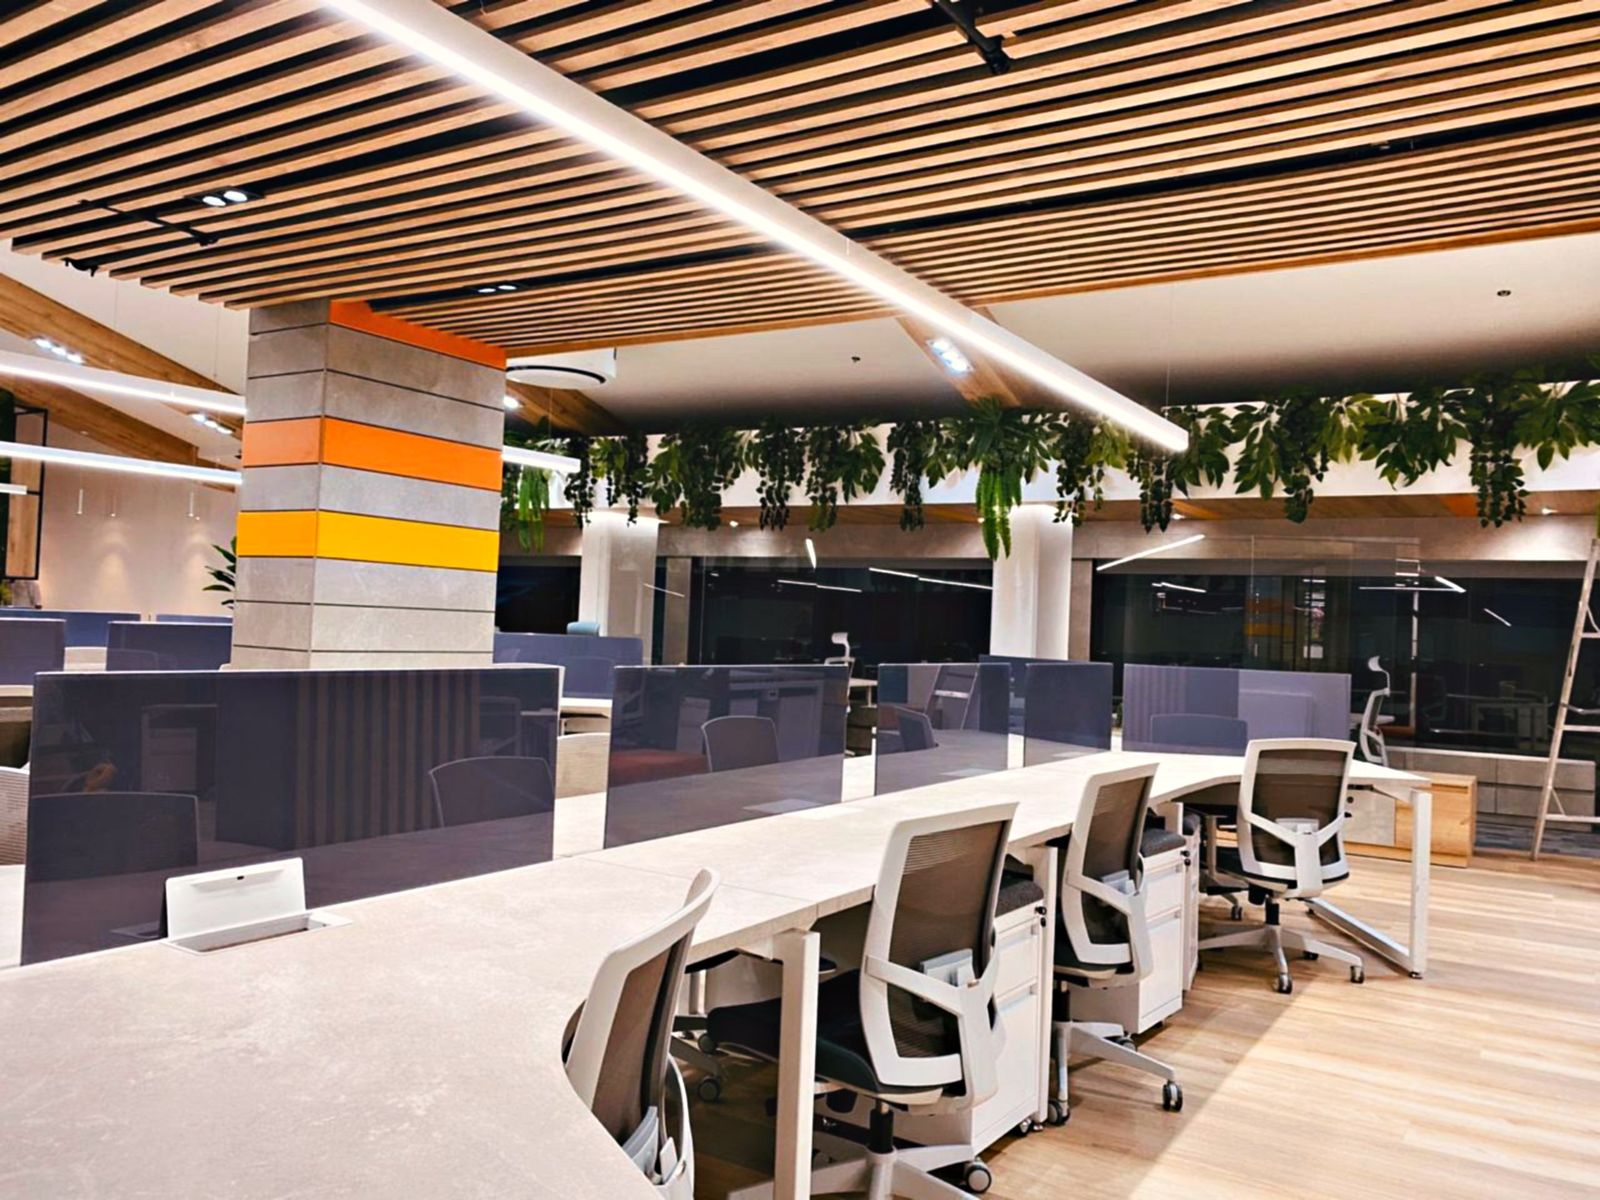
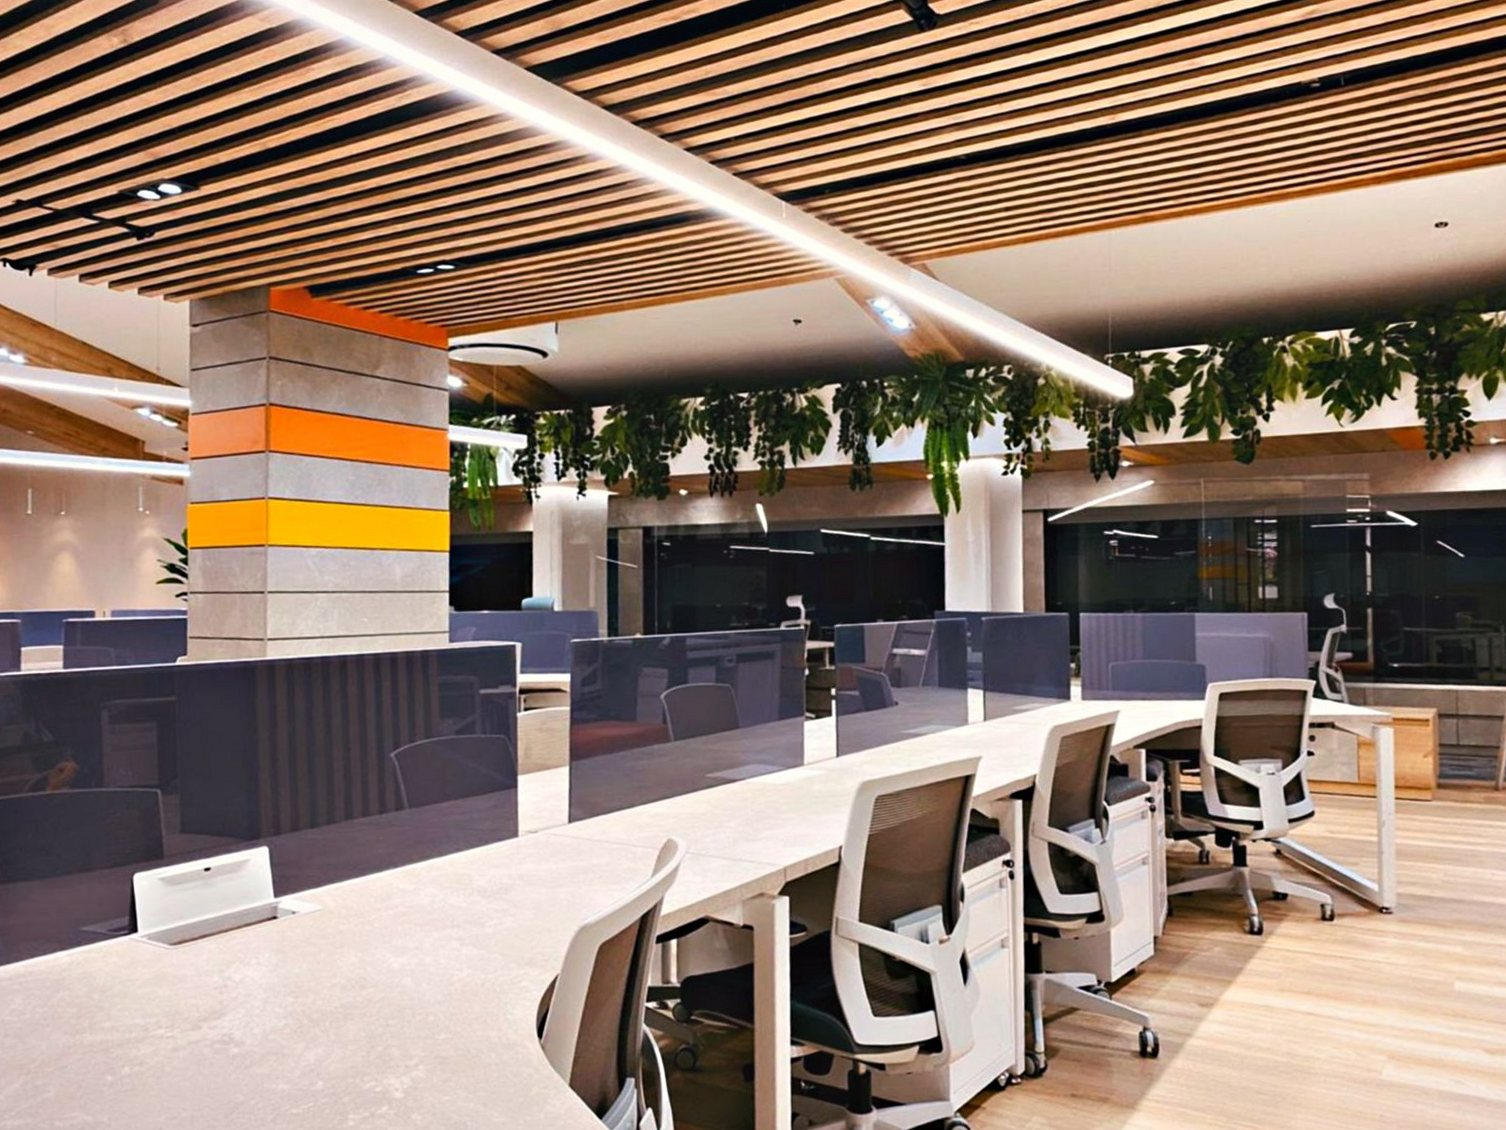
Galeria corporativa: foto 12 enderezada; herramienta de deteccion de inclinacion

diff --git a/docs/404.html b/docs/404.html
@@ -24,7 +24,7 @@
 <link rel="preconnect" href="https://fonts.gstatic.com" crossorigin>
 <link href="https://fonts.googleapis.com/css2?family=Inter:wght@200;300;400;500;600&display=swap" rel="stylesheet">
 <script>document.documentElement.className+=" js";</script>
-<link rel="stylesheet" href="assets/css/site.css?v=20261014191435">
+<link rel="stylesheet" href="assets/css/site.css?v=20261014193122">
 <script type="application/ld+json">
 {
   "@context": "https://schema.org",
@@ -558,6 +558,6 @@
   <svg viewBox="0 0 24 24" fill="currentColor" aria-hidden="true"><path d="M17.5 14.4c-.3-.2-1.7-.9-2-1-.3-.1-.5-.2-.7.1-.2.3-.7 1-.9 1.2-.2.2-.3.2-.6.1-.3-.2-1.2-.5-2.3-1.4-.9-.8-1.4-1.7-1.6-2-.2-.3 0-.5.1-.6l.5-.5c.1-.2.2-.3.3-.5 0-.2 0-.4 0-.5 0-.2-.7-1.6-.9-2.2-.2-.6-.5-.5-.7-.5h-.6c-.2 0-.5.1-.8.4-.3.3-1 1-1 2.5s1.1 2.9 1.2 3.1c.1.2 2.1 3.2 5 4.4.7.3 1.2.5 1.7.6.7.2 1.3.2 1.8.1.6-.1 1.7-.7 1.9-1.4.2-.7.2-1.2.2-1.4-.1-.1-.3-.2-.6-.3z"/><path d="M12 2a10 10 0 0 0-8.6 15.1L2 22l5-1.3A10 10 0 1 0 12 2zm0 18.2c-1.5 0-3-.4-4.3-1.2l-.3-.2-3 .8.8-2.9-.2-.3A8.2 8.2 0 1 1 12 20.2z"/></svg>
 </a>
 
-<script src="assets/js/site.js?v=20261014191435" defer></script>
+<script src="assets/js/site.js?v=20261014193122" defer></script>
 </body>
 </html>

diff --git a/docs/arquitectura-corporativa.html b/docs/arquitectura-corporativa.html
@@ -24,7 +24,7 @@
 <link rel="preconnect" href="https://fonts.gstatic.com" crossorigin>
 <link href="https://fonts.googleapis.com/css2?family=Inter:wght@200;300;400;500;600&display=swap" rel="stylesheet">
 <script>document.documentElement.className+=" js";</script>
-<link rel="stylesheet" href="assets/css/site.css?v=20261014191435">
+<link rel="stylesheet" href="assets/css/site.css?v=20261014193122">
 <script type="application/ld+json">
 {
   "@context": "https://schema.org",
@@ -226,6 +226,6 @@
   <svg viewBox="0 0 24 24" fill="currentColor" aria-hidden="true"><path d="M17.5 14.4c-.3-.2-1.7-.9-2-1-.3-.1-.5-.2-.7.1-.2.3-.7 1-.9 1.2-.2.2-.3.2-.6.1-.3-.2-1.2-.5-2.3-1.4-.9-.8-1.4-1.7-1.6-2-.2-.3 0-.5.1-.6l.5-.5c.1-.2.2-.3.3-.5 0-.2 0-.4 0-.5 0-.2-.7-1.6-.9-2.2-.2-.6-.5-.5-.7-.5h-.6c-.2 0-.5.1-.8.4-.3.3-1 1-1 2.5s1.1 2.9 1.2 3.1c.1.2 2.1 3.2 5 4.4.7.3 1.2.5 1.7.6.7.2 1.3.2 1.8.1.6-.1 1.7-.7 1.9-1.4.2-.7.2-1.2.2-1.4-.1-.1-.3-.2-.6-.3z"/><path d="M12 2a10 10 0 0 0-8.6 15.1L2 22l5-1.3A10 10 0 1 0 12 2zm0 18.2c-1.5 0-3-.4-4.3-1.2l-.3-.2-3 .8.8-2.9-.2-.3A8.2 8.2 0 1 1 12 20.2z"/></svg>
 </a>
 
-<script src="assets/js/site.js?v=20261014191435" defer></script>
+<script src="assets/js/site.js?v=20261014193122" defer></script>
 </body>
 </html>

diff --git a/docs/arquitectura-residencial.html b/docs/arquitectura-residencial.html
@@ -24,7 +24,7 @@
 <link rel="preconnect" href="https://fonts.gstatic.com" crossorigin>
 <link href="https://fonts.googleapis.com/css2?family=Inter:wght@200;300;400;500;600&display=swap" rel="stylesheet">
 <script>document.documentElement.className+=" js";</script>
-<link rel="stylesheet" href="assets/css/site.css?v=20261014191435">
+<link rel="stylesheet" href="assets/css/site.css?v=20261014193122">
 <script type="application/ld+json">
 {
   "@context": "https://schema.org",
@@ -226,6 +226,6 @@
   <svg viewBox="0 0 24 24" fill="currentColor" aria-hidden="true"><path d="M17.5 14.4c-.3-.2-1.7-.9-2-1-.3-.1-.5-.2-.7.1-.2.3-.7 1-.9 1.2-.2.2-.3.2-.6.1-.3-.2-1.2-.5-2.3-1.4-.9-.8-1.4-1.7-1.6-2-.2-.3 0-.5.1-.6l.5-.5c.1-.2.2-.3.3-.5 0-.2 0-.4 0-.5 0-.2-.7-1.6-.9-2.2-.2-.6-.5-.5-.7-.5h-.6c-.2 0-.5.1-.8.4-.3.3-1 1-1 2.5s1.1 2.9 1.2 3.1c.1.2 2.1 3.2 5 4.4.7.3 1.2.5 1.7.6.7.2 1.3.2 1.8.1.6-.1 1.7-.7 1.9-1.4.2-.7.2-1.2.2-1.4-.1-.1-.3-.2-.6-.3z"/><path d="M12 2a10 10 0 0 0-8.6 15.1L2 22l5-1.3A10 10 0 1 0 12 2zm0 18.2c-1.5 0-3-.4-4.3-1.2l-.3-.2-3 .8.8-2.9-.2-.3A8.2 8.2 0 1 1 12 20.2z"/></svg>
 </a>
 
-<script src="assets/js/site.js?v=20261014191435" defer></script>
+<script src="assets/js/site.js?v=20261014193122" defer></script>
 </body>
 </html>

diff --git a/docs/burbujas.html b/docs/burbujas.html
@@ -24,7 +24,7 @@
 <link rel="preconnect" href="https://fonts.gstatic.com" crossorigin>
 <link href="https://fonts.googleapis.com/css2?family=Inter:wght@200;300;400;500;600&display=swap" rel="stylesheet">
 <script>document.documentElement.className+=" js";</script>
-<link rel="stylesheet" href="assets/css/site.css?v=20261014191435">
+<link rel="stylesheet" href="assets/css/site.css?v=20261014193122">
 <script type="application/ld+json">
 {
   "@context": "https://schema.org",
@@ -382,6 +382,6 @@
   <svg viewBox="0 0 24 24" fill="currentColor" aria-hidden="true"><path d="M17.5 14.4c-.3-.2-1.7-.9-2-1-.3-.1-.5-.2-.7.1-.2.3-.7 1-.9 1.2-.2.2-.3.2-.6.1-.3-.2-1.2-.5-2.3-1.4-.9-.8-1.4-1.7-1.6-2-.2-.3 0-.5.1-.6l.5-.5c.1-.2.2-.3.3-.5 0-.2 0-.4 0-.5 0-.2-.7-1.6-.9-2.2-.2-.6-.5-.5-.7-.5h-.6c-.2 0-.5.1-.8.4-.3.3-1 1-1 2.5s1.1 2.9 1.2 3.1c.1.2 2.1 3.2 5 4.4.7.3 1.2.5 1.7.6.7.2 1.3.2 1.8.1.6-.1 1.7-.7 1.9-1.4.2-.7.2-1.2.2-1.4-.1-.1-.3-.2-.6-.3z"/><path d="M12 2a10 10 0 0 0-8.6 15.1L2 22l5-1.3A10 10 0 1 0 12 2zm0 18.2c-1.5 0-3-.4-4.3-1.2l-.3-.2-3 .8.8-2.9-.2-.3A8.2 8.2 0 1 1 12 20.2z"/></svg>
 </a>
 
-<script src="assets/js/site.js?v=20261014191435" defer></script>
+<script src="assets/js/site.js?v=20261014193122" defer></script>
 </body>
 </html>

diff --git a/docs/catalogos.html b/docs/catalogos.html
@@ -24,7 +24,7 @@
 <link rel="preconnect" href="https://fonts.gstatic.com" crossorigin>
 <link href="https://fonts.googleapis.com/css2?family=Inter:wght@200;300;400;500;600&display=swap" rel="stylesheet">
 <script>document.documentElement.className+=" js";</script>
-<link rel="stylesheet" href="assets/css/site.css?v=20261014191435">
+<link rel="stylesheet" href="assets/css/site.css?v=20261014193122">
 <script type="application/ld+json">
 {
   "@context": "https://schema.org",
@@ -249,6 +249,6 @@
   <svg viewBox="0 0 24 24" fill="currentColor" aria-hidden="true"><path d="M17.5 14.4c-.3-.2-1.7-.9-2-1-.3-.1-.5-.2-.7.1-.2.3-.7 1-.9 1.2-.2.2-.3.2-.6.1-.3-.2-1.2-.5-2.3-1.4-.9-.8-1.4-1.7-1.6-2-.2-.3 0-.5.1-.6l.5-.5c.1-.2.2-.3.3-.5 0-.2 0-.4 0-.5 0-.2-.7-1.6-.9-2.2-.2-.6-.5-.5-.7-.5h-.6c-.2 0-.5.1-.8.4-.3.3-1 1-1 2.5s1.1 2.9 1.2 3.1c.1.2 2.1 3.2 5 4.4.7.3 1.2.5 1.7.6.7.2 1.3.2 1.8.1.6-.1 1.7-.7 1.9-1.4.2-.7.2-1.2.2-1.4-.1-.1-.3-.2-.6-.3z"/><path d="M12 2a10 10 0 0 0-8.6 15.1L2 22l5-1.3A10 10 0 1 0 12 2zm0 18.2c-1.5 0-3-.4-4.3-1.2l-.3-.2-3 .8.8-2.9-.2-.3A8.2 8.2 0 1 1 12 20.2z"/></svg>
 </a>
 
-<script src="assets/js/site.js?v=20261014191435" defer></script>
+<script src="assets/js/site.js?v=20261014193122" defer></script>
 </body>
 </html>

diff --git a/docs/clientes.html b/docs/clientes.html
@@ -24,7 +24,7 @@
 <link rel="preconnect" href="https://fonts.gstatic.com" crossorigin>
 <link href="https://fonts.googleapis.com/css2?family=Inter:wght@200;300;400;500;600&display=swap" rel="stylesheet">
 <script>document.documentElement.className+=" js";</script>
-<link rel="stylesheet" href="assets/css/site.css?v=20261014191435">
+<link rel="stylesheet" href="assets/css/site.css?v=20261014193122">
 <script type="application/ld+json">
 {
   "@context": "https://schema.org",
@@ -234,6 +234,6 @@
   <svg viewBox="0 0 24 24" fill="currentColor" aria-hidden="true"><path d="M17.5 14.4c-.3-.2-1.7-.9-2-1-.3-.1-.5-.2-.7.1-.2.3-.7 1-.9 1.2-.2.2-.3.2-.6.1-.3-.2-1.2-.5-2.3-1.4-.9-.8-1.4-1.7-1.6-2-.2-.3 0-.5.1-.6l.5-.5c.1-.2.2-.3.3-.5 0-.2 0-.4 0-.5 0-.2-.7-1.6-.9-2.2-.2-.6-.5-.5-.7-.5h-.6c-.2 0-.5.1-.8.4-.3.3-1 1-1 2.5s1.1 2.9 1.2 3.1c.1.2 2.1 3.2 5 4.4.7.3 1.2.5 1.7.6.7.2 1.3.2 1.8.1.6-.1 1.7-.7 1.9-1.4.2-.7.2-1.2.2-1.4-.1-.1-.3-.2-.6-.3z"/><path d="M12 2a10 10 0 0 0-8.6 15.1L2 22l5-1.3A10 10 0 1 0 12 2zm0 18.2c-1.5 0-3-.4-4.3-1.2l-.3-.2-3 .8.8-2.9-.2-.3A8.2 8.2 0 1 1 12 20.2z"/></svg>
 </a>
 
-<script src="assets/js/site.js?v=20261014191435" defer></script>
+<script src="assets/js/site.js?v=20261014193122" defer></script>
 </body>
 </html>

diff --git a/docs/contacto.html b/docs/contacto.html
@@ -24,7 +24,7 @@
 <link rel="preconnect" href="https://fonts.gstatic.com" crossorigin>
 <link href="https://fonts.googleapis.com/css2?family=Inter:wght@200;300;400;500;600&display=swap" rel="stylesheet">
 <script>document.documentElement.className+=" js";</script>
-<link rel="stylesheet" href="assets/css/site.css?v=20261014191435">
+<link rel="stylesheet" href="assets/css/site.css?v=20261014193122">
 <script type="application/ld+json">
 {
   "@context": "https://schema.org",
@@ -292,6 +292,6 @@
   <svg viewBox="0 0 24 24" fill="currentColor" aria-hidden="true"><path d="M17.5 14.4c-.3-.2-1.7-.9-2-1-.3-.1-.5-.2-.7.1-.2.3-.7 1-.9 1.2-.2.2-.3.2-.6.1-.3-.2-1.2-.5-2.3-1.4-.9-.8-1.4-1.7-1.6-2-.2-.3 0-.5.1-.6l.5-.5c.1-.2.2-.3.3-.5 0-.2 0-.4 0-.5 0-.2-.7-1.6-.9-2.2-.2-.6-.5-.5-.7-.5h-.6c-.2 0-.5.1-.8.4-.3.3-1 1-1 2.5s1.1 2.9 1.2 3.1c.1.2 2.1 3.2 5 4.4.7.3 1.2.5 1.7.6.7.2 1.3.2 1.8.1.6-.1 1.7-.7 1.9-1.4.2-.7.2-1.2.2-1.4-.1-.1-.3-.2-.6-.3z"/><path d="M12 2a10 10 0 0 0-8.6 15.1L2 22l5-1.3A10 10 0 1 0 12 2zm0 18.2c-1.5 0-3-.4-4.3-1.2l-.3-.2-3 .8.8-2.9-.2-.3A8.2 8.2 0 1 1 12 20.2z"/></svg>
 </a>
 
-<script src="assets/js/site.js?v=20261014191435" defer></script>
+<script src="assets/js/site.js?v=20261014193122" defer></script>
 </body>
 </html>

diff --git a/docs/estudio-de-arquitectura.html b/docs/estudio-de-arquitectura.html
@@ -24,7 +24,7 @@
 <link rel="preconnect" href="https://fonts.gstatic.com" crossorigin>
 <link href="https://fonts.googleapis.com/css2?family=Inter:wght@200;300;400;500;600&display=swap" rel="stylesheet">
 <script>document.documentElement.className+=" js";</script>
-<link rel="stylesheet" href="assets/css/site.css?v=20261014191435">
+<link rel="stylesheet" href="assets/css/site.css?v=20261014193122">
 <script type="application/ld+json">
 {
   "@context": "https://schema.org",
@@ -475,6 +475,6 @@
   <svg viewBox="0 0 24 24" fill="currentColor" aria-hidden="true"><path d="M17.5 14.4c-.3-.2-1.7-.9-2-1-.3-.1-.5-.2-.7.1-.2.3-.7 1-.9 1.2-.2.2-.3.2-.6.1-.3-.2-1.2-.5-2.3-1.4-.9-.8-1.4-1.7-1.6-2-.2-.3 0-.5.1-.6l.5-.5c.1-.2.2-.3.3-.5 0-.2 0-.4 0-.5 0-.2-.7-1.6-.9-2.2-.2-.6-.5-.5-.7-.5h-.6c-.2 0-.5.1-.8.4-.3.3-1 1-1 2.5s1.1 2.9 1.2 3.1c.1.2 2.1 3.2 5 4.4.7.3 1.2.5 1.7.6.7.2 1.3.2 1.8.1.6-.1 1.7-.7 1.9-1.4.2-.7.2-1.2.2-1.4-.1-.1-.3-.2-.6-.3z"/><path d="M12 2a10 10 0 0 0-8.6 15.1L2 22l5-1.3A10 10 0 1 0 12 2zm0 18.2c-1.5 0-3-.4-4.3-1.2l-.3-.2-3 .8.8-2.9-.2-.3A8.2 8.2 0 1 1 12 20.2z"/></svg>
 </a>
 
-<script src="assets/js/site.js?v=20261014191435" defer></script>
+<script src="assets/js/site.js?v=20261014193122" defer></script>
 </body>
 </html>

diff --git a/docs/fachadas.html b/docs/fachadas.html
@@ -24,7 +24,7 @@
 <link rel="preconnect" href="https://fonts.gstatic.com" crossorigin>
 <link href="https://fonts.googleapis.com/css2?family=Inter:wght@200;300;400;500;600&display=swap" rel="stylesheet">
 <script>document.documentElement.className+=" js";</script>
-<link rel="stylesheet" href="assets/css/site.css?v=20261014191435">
+<link rel="stylesheet" href="assets/css/site.css?v=20261014193122">
 <script type="application/ld+json">
 {
   "@context": "https://schema.org",
@@ -448,6 +448,6 @@
   <svg viewBox="0 0 24 24" fill="currentColor" aria-hidden="true"><path d="M17.5 14.4c-.3-.2-1.7-.9-2-1-.3-.1-.5-.2-.7.1-.2.3-.7 1-.9 1.2-.2.2-.3.2-.6.1-.3-.2-1.2-.5-2.3-1.4-.9-.8-1.4-1.7-1.6-2-.2-.3 0-.5.1-.6l.5-.5c.1-.2.2-.3.3-.5 0-.2 0-.4 0-.5 0-.2-.7-1.6-.9-2.2-.2-.6-.5-.5-.7-.5h-.6c-.2 0-.5.1-.8.4-.3.3-1 1-1 2.5s1.1 2.9 1.2 3.1c.1.2 2.1 3.2 5 4.4.7.3 1.2.5 1.7.6.7.2 1.3.2 1.8.1.6-.1 1.7-.7 1.9-1.4.2-.7.2-1.2.2-1.4-.1-.1-.3-.2-.6-.3z"/><path d="M12 2a10 10 0 0 0-8.6 15.1L2 22l5-1.3A10 10 0 1 0 12 2zm0 18.2c-1.5 0-3-.4-4.3-1.2l-.3-.2-3 .8.8-2.9-.2-.3A8.2 8.2 0 1 1 12 20.2z"/></svg>
 </a>
 
-<script src="assets/js/site.js?v=20261014191435" defer></script>
+<script src="assets/js/site.js?v=20261014193122" defer></script>
 </body>
 </html>

diff --git a/docs/index.html b/docs/index.html
@@ -24,7 +24,7 @@
 <link rel="preconnect" href="https://fonts.gstatic.com" crossorigin>
 <link href="https://fonts.googleapis.com/css2?family=Inter:wght@200;300;400;500;600&display=swap" rel="stylesheet">
 <script>document.documentElement.className+=" js";</script>
-<link rel="stylesheet" href="assets/css/site.css?v=20261014191435">
+<link rel="stylesheet" href="assets/css/site.css?v=20261014193122">
 <script type="application/ld+json">
 {
   "@context": "https://schema.org",
@@ -558,6 +558,6 @@
   <svg viewBox="0 0 24 24" fill="currentColor" aria-hidden="true"><path d="M17.5 14.4c-.3-.2-1.7-.9-2-1-.3-.1-.5-.2-.7.1-.2.3-.7 1-.9 1.2-.2.2-.3.2-.6.1-.3-.2-1.2-.5-2.3-1.4-.9-.8-1.4-1.7-1.6-2-.2-.3 0-.5.1-.6l.5-.5c.1-.2.2-.3.3-.5 0-.2 0-.4 0-.5 0-.2-.7-1.6-.9-2.2-.2-.6-.5-.5-.7-.5h-.6c-.2 0-.5.1-.8.4-.3.3-1 1-1 2.5s1.1 2.9 1.2 3.1c.1.2 2.1 3.2 5 4.4.7.3 1.2.5 1.7.6.7.2 1.3.2 1.8.1.6-.1 1.7-.7 1.9-1.4.2-.7.2-1.2.2-1.4-.1-.1-.3-.2-.6-.3z"/><path d="M12 2a10 10 0 0 0-8.6 15.1L2 22l5-1.3A10 10 0 1 0 12 2zm0 18.2c-1.5 0-3-.4-4.3-1.2l-.3-.2-3 .8.8-2.9-.2-.3A8.2 8.2 0 1 1 12 20.2z"/></svg>
 </a>
 
-<script src="assets/js/site.js?v=20261014191435" defer></script>
+<script src="assets/js/site.js?v=20261014193122" defer></script>
 </body>
 </html>

diff --git a/docs/nosotros.html b/docs/nosotros.html
@@ -24,7 +24,7 @@
 <link rel="preconnect" href="https://fonts.gstatic.com" crossorigin>
 <link href="https://fonts.googleapis.com/css2?family=Inter:wght@200;300;400;500;600&display=swap" rel="stylesheet">
 <script>document.documentElement.className+=" js";</script>
-<link rel="stylesheet" href="assets/css/site.css?v=20261014191435">
+<link rel="stylesheet" href="assets/css/site.css?v=20261014193122">
 <script type="application/ld+json">
 {
   "@context": "https://schema.org",
@@ -275,6 +275,6 @@
   <svg viewBox="0 0 24 24" fill="currentColor" aria-hidden="true"><path d="M17.5 14.4c-.3-.2-1.7-.9-2-1-.3-.1-.5-.2-.7.1-.2.3-.7 1-.9 1.2-.2.2-.3.2-.6.1-.3-.2-1.2-.5-2.3-1.4-.9-.8-1.4-1.7-1.6-2-.2-.3 0-.5.1-.6l.5-.5c.1-.2.2-.3.3-.5 0-.2 0-.4 0-.5 0-.2-.7-1.6-.9-2.2-.2-.6-.5-.5-.7-.5h-.6c-.2 0-.5.1-.8.4-.3.3-1 1-1 2.5s1.1 2.9 1.2 3.1c.1.2 2.1 3.2 5 4.4.7.3 1.2.5 1.7.6.7.2 1.3.2 1.8.1.6-.1 1.7-.7 1.9-1.4.2-.7.2-1.2.2-1.4-.1-.1-.3-.2-.6-.3z"/><path d="M12 2a10 10 0 0 0-8.6 15.1L2 22l5-1.3A10 10 0 1 0 12 2zm0 18.2c-1.5 0-3-.4-4.3-1.2l-.3-.2-3 .8.8-2.9-.2-.3A8.2 8.2 0 1 1 12 20.2z"/></svg>
 </a>
 
-<script src="assets/js/site.js?v=20261014191435" defer></script>
+<script src="assets/js/site.js?v=20261014193122" defer></script>
 </body>
 </html>

diff --git a/docs/privacidad.html b/docs/privacidad.html
@@ -24,7 +24,7 @@
 <link rel="preconnect" href="https://fonts.gstatic.com" crossorigin>
 <link href="https://fonts.googleapis.com/css2?family=Inter:wght@200;300;400;500;600&display=swap" rel="stylesheet">
 <script>document.documentElement.className+=" js";</script>
-<link rel="stylesheet" href="assets/css/site.css?v=20261014191435">
+<link rel="stylesheet" href="assets/css/site.css?v=20261014193122">
 <script type="application/ld+json">
 {
   "@context": "https://schema.org",
@@ -256,6 +256,6 @@
   <svg viewBox="0 0 24 24" fill="currentColor" aria-hidden="true"><path d="M17.5 14.4c-.3-.2-1.7-.9-2-1-.3-.1-.5-.2-.7.1-.2.3-.7 1-.9 1.2-.2.2-.3.2-.6.1-.3-.2-1.2-.5-2.3-1.4-.9-.8-1.4-1.7-1.6-2-.2-.3 0-.5.1-.6l.5-.5c.1-.2.2-.3.3-.5 0-.2 0-.4 0-.5 0-.2-.7-1.6-.9-2.2-.2-.6-.5-.5-.7-.5h-.6c-.2 0-.5.1-.8.4-.3.3-1 1-1 2.5s1.1 2.9 1.2 3.1c.1.2 2.1 3.2 5 4.4.7.3 1.2.5 1.7.6.7.2 1.3.2 1.8.1.6-.1 1.7-.7 1.9-1.4.2-.7.2-1.2.2-1.4-.1-.1-.3-.2-.6-.3z"/><path d="M12 2a10 10 0 0 0-8.6 15.1L2 22l5-1.3A10 10 0 1 0 12 2zm0 18.2c-1.5 0-3-.4-4.3-1.2l-.3-.2-3 .8.8-2.9-.2-.3A8.2 8.2 0 1 1 12 20.2z"/></svg>
 </a>
 
-<script src="assets/js/site.js?v=20261014191435" defer></script>
+<script src="assets/js/site.js?v=20261014193122" defer></script>
 </body>
 </html>
